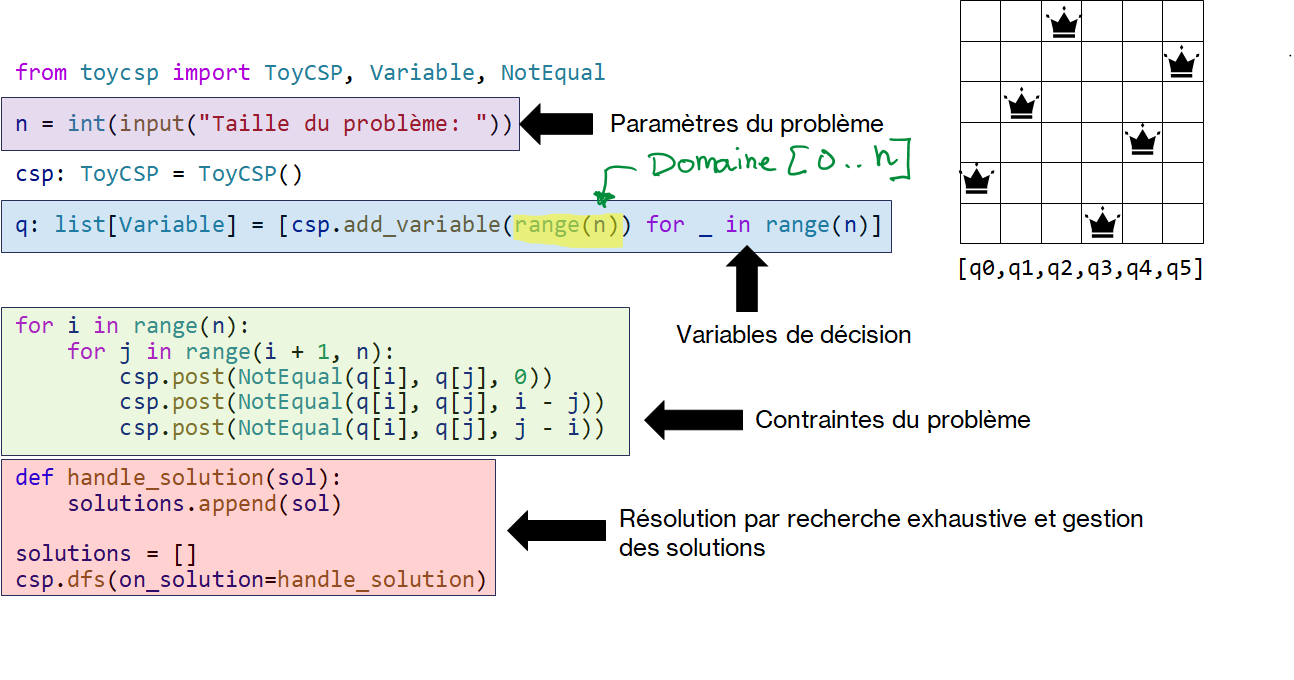
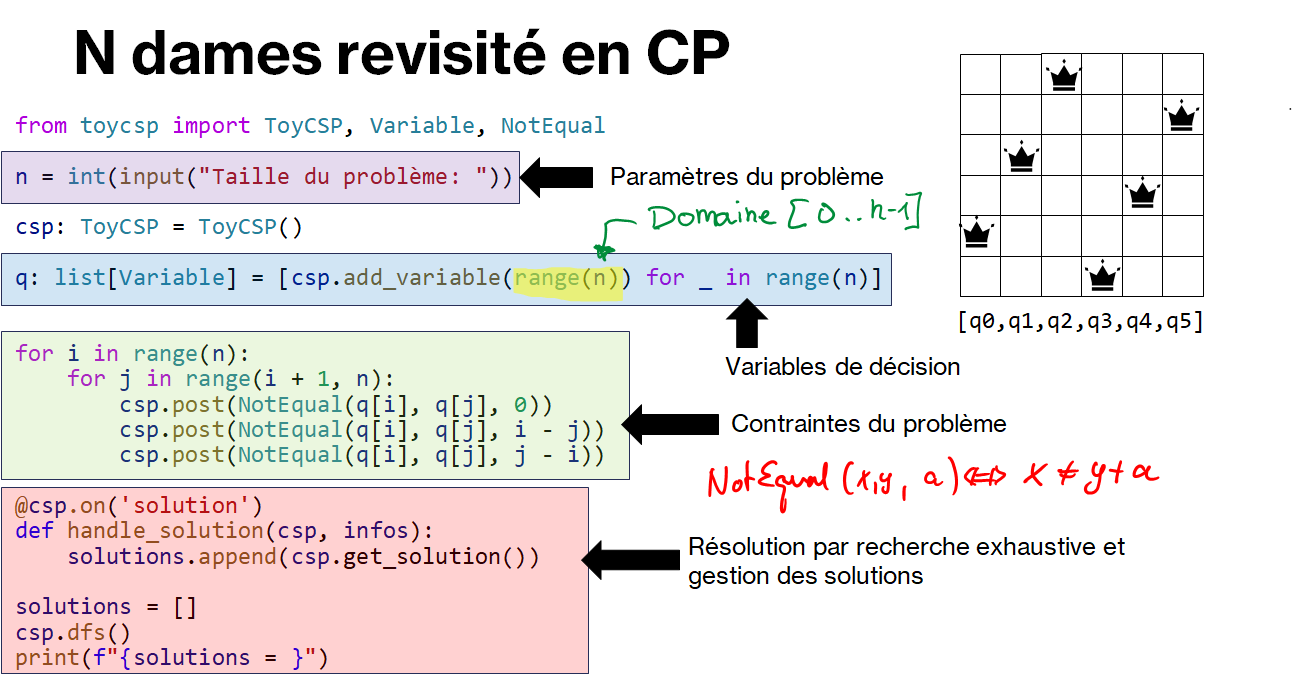
cp concepts : premières corrections

diff --git a/_sources/cp/cp-concepts.rst b/_sources/cp/cp-concepts.rst
@@ -35,6 +35,7 @@ solveur de contraintes ``ToyCSP`` que nous allons développer.
 
 ..  activecode:: n-queens-modeling-version-1
     :language: webtp
+    :interpreterargs: branch=branch&layout=["Editor", "Console"]
 
     ############### Importation dans WebTigerPython ############
     from pyodide.http import open_url
@@ -103,20 +104,21 @@ programmation par contraintes se base essentiellement sur les concepts suivants:
   complètement le problème et constitue une instance du problème.
 
 - Les **variables de décision** permettent d'exprimer le problème. Chaque
-  variable possède un ``domaine`` correspondant à l'ensemble des valeurs
+  variable possède un **domaine** correspondant à l'ensemble des valeurs
   admissibles pour cette variable dans le problème.
 
 - Les **contraintes** permettent d'exprimer des relations entre les variables.
   Les contraintes constituent non seulement un outil de formulation du problème
-  comme en mathématiques, mais aussi des outils de raisonnement. L'**arité**
-  d'une contrainte correspond au nombre de variables qu'elle implique. 
+  comme en mathématiques, mais aussi des outils de raisonnement, par l'entremise
+  de ses algorithmes de propagation. L'**arité** d'une contrainte correspond au
+  nombre de variables qu'elle implique. 
 
 - Le **processus de résolution** est généralement encapsulé dans le solveur et
   **indépendant du modèle**. On peut typiquement imaginer garder le modèle, mais
-  modifier le processus de résolution, en utilisant expérimentant avec
-  différentes stratégies de recherche préimplémentées dans le solveur. C'est là
-  que réside toute la force de la programmation par contraintes : la formulation
-  du problème est clairement **découplée** du processus de résolution, ce qui
+  modifier le processus de résolution, en expérimentant avec différentes
+  stratégies de recherche préimplémentées dans le solveur. C'est là que réside
+  toute la force de la programmation par contraintes : la formulation du
+  problème est clairement **découplée** du processus de résolution, ce qui
   permet de modifier le modèle (donc le problème) en conservant la stratégie de
   résolution ou, au contraire, garder le même modèle mais changer la stratégie
   de résolution.
